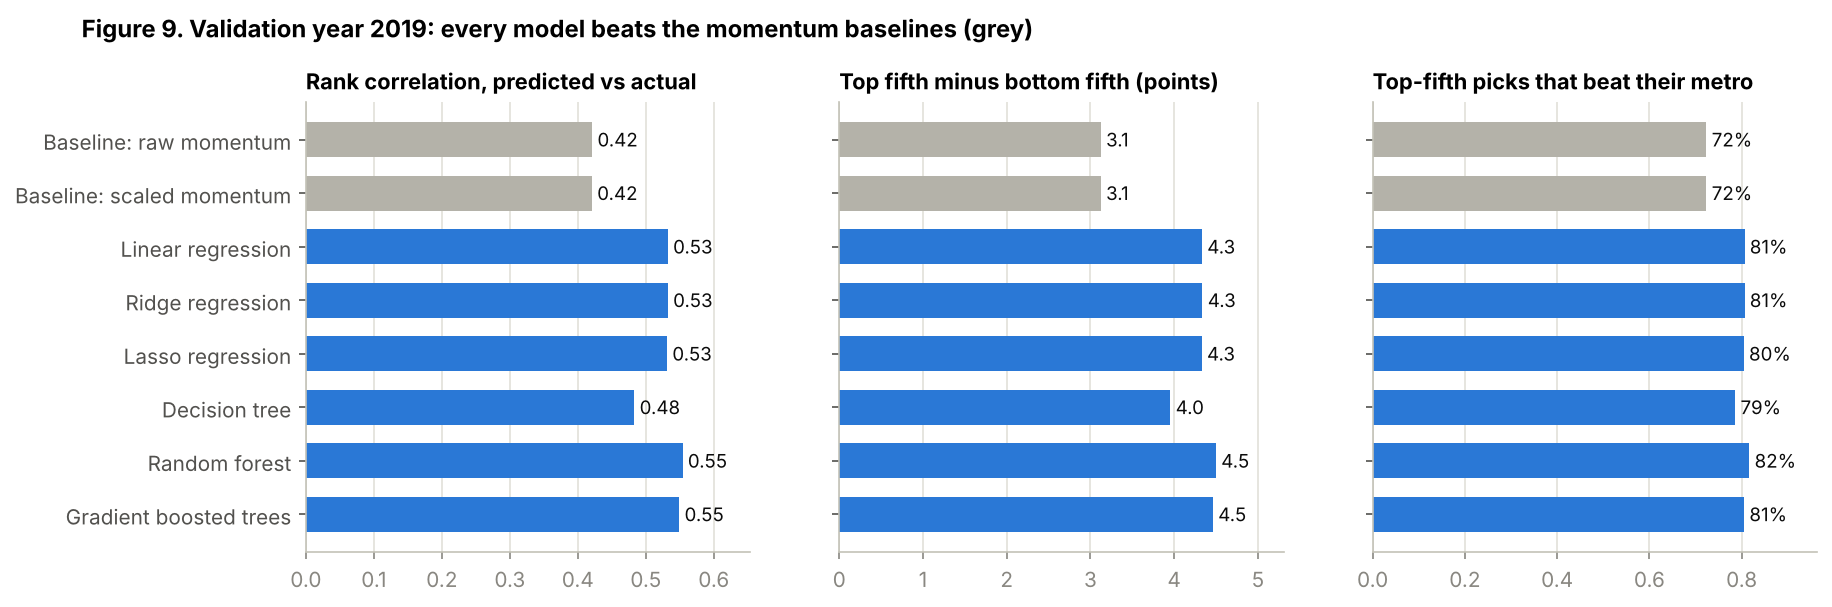
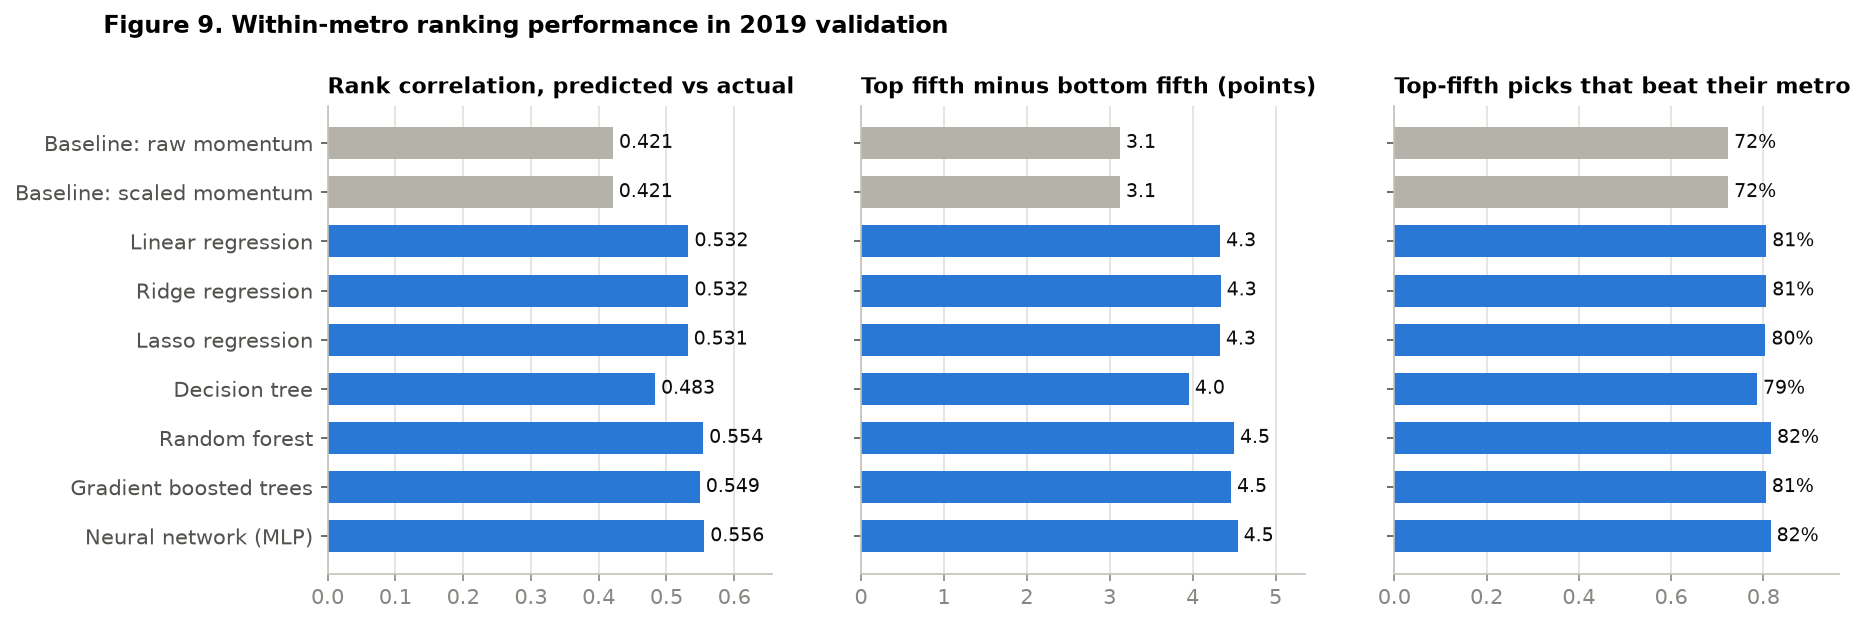
Evaluate a feedforward neural network in Project 1

diff --git a/src/04_models.py b/src/04_models.py
@@ -4,7 +4,9 @@ Reads data/dev/ only.
 """
 import json, itertools, importlib.util, warnings
 import numpy as np, pandas as pd
+from sklearn.compose import TransformedTargetRegressor
 from sklearn.linear_model import LinearRegression, Ridge, Lasso
+from sklearn.neural_network import MLPRegressor
 from sklearn.preprocessing import StandardScaler
 from sklearn.pipeline import make_pipeline
 from sklearn.tree import DecisionTreeRegressor
@@ -30,6 +32,24 @@ def metrics(df, pred):
     return out
 
 def grid(g): return [dict(zip(g, v)) for v in itertools.product(*g.values())]
+
+def neural_net(hidden_layer_sizes, alpha):
+    # Fit both scalers on the current training fold and predict in original target units.
+    return TransformedTargetRegressor(
+        regressor=make_pipeline(
+            StandardScaler(),
+            MLPRegressor(
+                hidden_layer_sizes=hidden_layer_sizes,
+                alpha=alpha,
+                batch_size=256,
+                max_iter=200,
+                early_stopping=False,
+                random_state=SEED,
+            ),
+        ),
+        transformer=StandardScaler(),
+    )
+
 MODELS = {
  "Linear regression": (lambda: make_pipeline(StandardScaler(), LinearRegression()), [{}]),
  "Ridge regression": (lambda alpha: make_pipeline(StandardScaler(), Ridge(alpha=alpha)), grid({"alpha": [1, 10, 100, 1000, 3000, 10000]})),
@@ -40,6 +60,7 @@ MODELS = {
                    max_features=0.5, n_jobs=-1, random_state=SEED), grid({"max_depth": [6, 10, None], "min_samples_leaf": [20, 50]})),
  "Gradient boosted trees": (lambda max_depth, learning_rate, max_iter: HistGradientBoostingRegressor(max_depth=max_depth, learning_rate=learning_rate,
                    max_iter=max_iter, min_samples_leaf=50, random_state=SEED), grid({"max_depth": [2, 3, 4], "learning_rate": [0.03, 0.1], "max_iter": [100, 300]})),
+ "Neural network (MLP)": (neural_net, grid({"hidden_layer_sizes": [(32,), (64,)], "alpha": [0.01, 1.0]})),
 }
 def fit_pred(make, params, tr, te):
     m = make(**params).fit(tr[FEATS], tr[Y]); return m, m.predict(te[FEATS])

diff --git a/src/04b_model_charts.py b/src/04b_model_charts.py
@@ -11,14 +11,14 @@ R = pd.read_csv("data/dev/model_results.csv"); R = R[R.model != "Baseline: zero"
 P = pd.read_csv("data/dev/validation_predictions.csv"); S = pickle.load(open("data/dev/models_stage4.pkl", "rb"))
 print(R[["model", "val_rmse_points"]].round(5).to_string(index=False))
 # Figure 9
-fig, axes = plt.subplots(1, 3, figsize=(13, 3.9), sharey=True)
-for ax, (col, title, fmt) in zip(axes, [("val_rank_corr", "Rank correlation, predicted vs actual", "{:.2f}"),
+fig, axes = plt.subplots(1, 3, figsize=(13, max(3.9, 0.45 * len(R))), sharey=True)
+for ax, (col, title, fmt) in zip(axes, [("val_rank_corr", "Rank correlation, predicted vs actual", "{:.3f}"),
         ("val_top_minus_bottom_points", "Top fifth minus bottom fifth (points)", "{:.1f}"), ("val_top_fifth_beat_rate", "Top-fifth picks that beat their metro", "{:.0%}")]):
     cols = [GREY if m.startswith("Baseline") else BLUE for m in R.model]
     ax.barh(R.model, R[col], color=cols, height=.65); ax.set_title(title); ax.grid(axis="y", visible=False)
     for i, v in enumerate(R[col]): ax.text(v, i, " " + fmt.format(v), va="center", fontsize=9, color=INK)
     ax.set_xlim(0, R[col].max() * 1.18)
-fig.suptitle("Figure 9. Validation year 2019: every model beats the momentum baselines (grey)", x=0.01, ha="left", fontsize=11.5, fontweight="bold", y=1.03)
+fig.suptitle("Figure 9. Within-metro ranking performance in 2019 validation", x=0.01, ha="left", fontsize=11.5, fontweight="bold", y=1.03)
 fig.savefig("figures/fig9_model_comparison.png"); plt.close(fig)
 # Figure 10: the decision tree, top three levels
 tree = S["fitted"]["Decision tree"]; names = [F.FEATURES.get(f, "Two-week figure missing") for f in S["feats"]]

diff --git a/README.md b/README.md
@@ -44,7 +44,7 @@ python src/01_visualise.py                    # figures 1-7, training years only
 python src/02_clean.py                        # cleaning rules learned on training years
 python src/03_features.py                     # 20 inputs + 1 flag
 python src/03b_feature_chart.py               # figure 8
-python src/04_models.py                       # baselines and six models (seed 15071)
+python src/04_models.py                       # baselines and seven models (seed 15071)
 python src/04b_model_charts.py                # figures 9-12
 ```
 
@@ -65,17 +65,27 @@ python src/04b_model_charts.py                # figures 9-12
 
 ## Results so far (validation year 2019)
 
-| Model | Rank correlation | Top fifth minus bottom fifth (points) | Top-fifth picks beating metro | R-squared |
+| Model | Rank correlation | Top fifth minus bottom fifth (points) | Top-fifth picks beating metro | R² vs zero |
 |---|---|---|---|---|
-| Baseline: scaled momentum | 0.42 | 3.1 | 72% | 0.01 |
-| Linear regression | 0.53 | 4.3 | 81% | 0.18 |
-| Ridge / lasso regression | 0.53 | 4.3 | 81% / 80% | 0.18 |
-| Decision tree | 0.48 | 4.0 | 79% | 0.18 |
-| Random forest | 0.55 | 4.5 | 82% | 0.24 |
-| Gradient boosted trees | 0.55 | 4.5 | 81% | 0.22 |
+| Baseline: scaled momentum | 0.421 | 3.1 | 72% | 0.008 |
+| Linear regression | 0.532 | 4.3 | 81% | 0.183 |
+| Ridge / lasso regression | 0.532 / 0.531 | 4.3 | 81% / 80% | 0.183 |
+| Decision tree | 0.483 | 4.0 | 79% | 0.183 |
+| Random forest | 0.554 | 4.5 | 82% | 0.239 |
+| Gradient boosted trees | 0.549 | 4.5 | 81% | 0.223 |
+| Neural network (MLP) | 0.556 | 4.5 | 82% | 0.230 |
 
 Rank correlation and the fifths are computed within each metro. Full numbers,
 including the rolling training-year results, are in `results/model_results.csv`.
+
+The neural network is a feedforward MLP with one hidden layer and L2
+regularization. The rolling training folds select the layer width (32 or 64)
+and regularization strength by RMSE. Each fit scales features and the target
+using its training rows, then converts predictions back to the original units
+for evaluation. The model uses the same inputs and 2019 validation as the trees.
+The selected MLP had 64 hidden units and `alpha=1.0`. The random forest had
+lower RMSE on the rolling folds (3.054 vs. 3.080 points) and in 2019 validation
+(2.917 vs. 2.933 points). The MLP ranked ZIP codes slightly better in 2019.
 
 ## Known limits and disclosures
 
